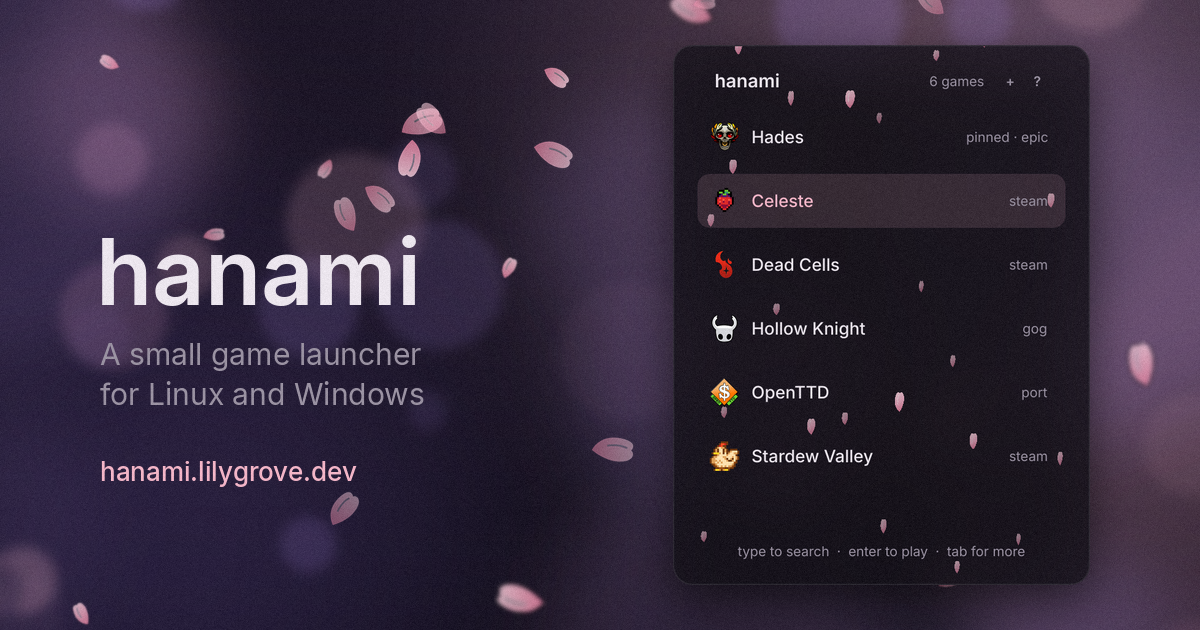
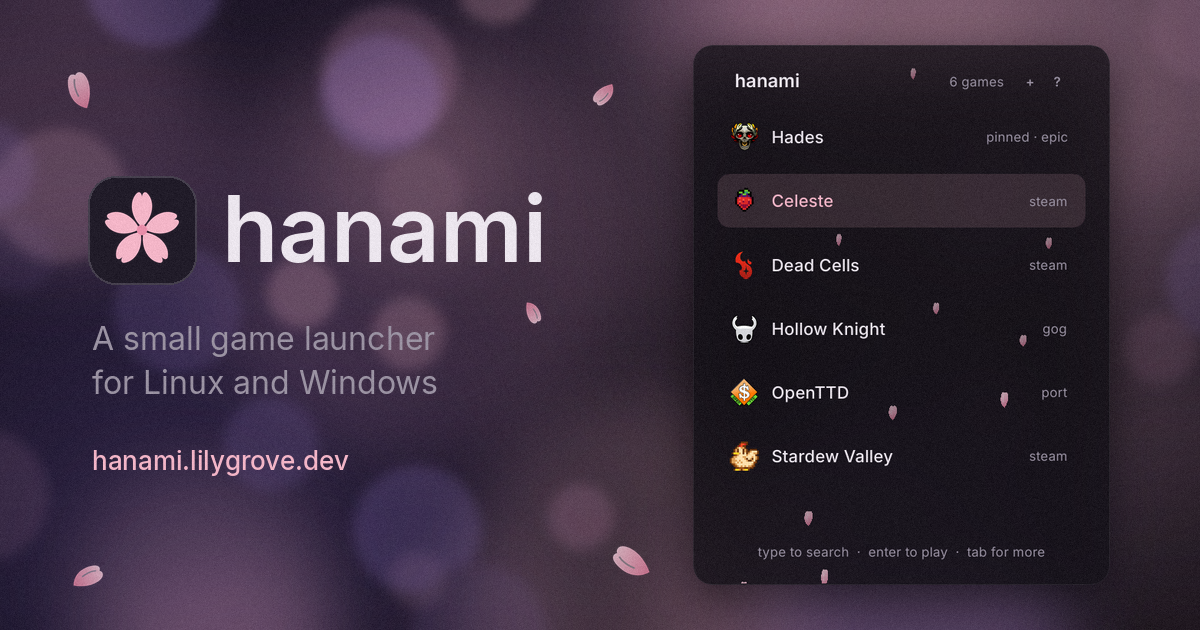
docs(readme): readable looks picture and a new link preview
- Looks picture: one look per row, panel drawn larger, no shape on text
- social.png redrawn in the banner's style by docs/looks.py
- screenshot.py no longer writes social.png; docs say which script does
- DESIGN.md: 10 px minimum at 800 px wide covers panel screenshots too

diff --git a/docs/looks.py b/docs/looks.py
@@ -1,9 +1,10 @@
-"""Draws docs/images/looks.webp: the real panel in three looks an AI can
-write (sakura, autumn, snow), side by side. Needs Rust, Pillow and fonttools.
+"""Draws docs/images/looks-*.webp and site/assets/social.png: the real panel in three looks an AI can
+write (sakura, autumn, snow), one above the other. Needs Rust, Pillow and fonttools.
 
-    python3 docs/looks.py [time time time]
+    python3 docs/looks.py [sakura autumn snow preview]
 
-The times (seconds into the petals) are picked so no shape covers text.
+The times (seconds into the petals; the last is the link preview's panel)
+are picked so no shape covers text.
 """
 
 import json
@@ -27,7 +28,9 @@ GAMES = [("Hades", "pinned · epic", "hades", True), ("Celeste", "steam", "celes
          ("OpenTTD", "port", "openttd", False), ("Stardew Valley", "steam", "stardew-valley", False)]
 
 
-TIMES = [float(t) for t in sys.argv[1:4]] or [3.85, 5.7, 9.03]
+TIMES = [float(t) for t in sys.argv[1:5]] or [15.8, 16.26, 2.23, 22.14]
+SCALE = 1.6
+SHOWN = 206
 
 
 def guide_shapes():
@@ -39,9 +42,10 @@ def guide_shapes():
 def panels(work):
     """The panel in each look, drawn by the panel_frames example."""
     maple, snow = guide_shapes()
-    looks = [({"petals": 12}, None), (dict(AUTUMN, petals=8, dots=0), maple), (dict(SNOW, petals=10, dots=0), snow)]
+    looks = [({"petals": 12}, None), (dict(AUTUMN, petals=6, dots=0), maple), (dict(SNOW, petals=10, dots=0), snow), ({"petals": 12}, None)]
     rows = [{"name": n, "label": l, "icon": f"site/assets/games/{i}.png", "pinned": p} for n, l, i, p in GAMES]
-    lines = []
+    size = (round(340 * SCALE), round(440 * SCALE))
+    out = []
     for k, (theme, shape) in enumerate(looks):
         state = {"time": TIMES[k], "games": rows, "selected": 1, "theme": theme}
         if shape:
@@ -49,14 +53,10 @@ def panels(work):
             folder.mkdir()
             (folder / "petal.svg").write_text(shape)
             state["look"] = str(folder)
-        lines.append(json.dumps(state))
-    frames = work / "frames"
-    subprocess.run(["cargo", "run", "-q", "--release", "--example", "panel_frames", "--", str(frames), "2.0"],
-                   input="\n".join(lines).encode(), cwd=ROOT, check=True)
-    size = (680, 880)
-    out = []
-    for k in range(len(looks)):
-        raw = (frames / f"{k:05}.rgba").read_bytes()
+        frames = work / f"frames-{k}"
+        subprocess.run(["cargo", "run", "-q", "--release", "--example", "panel_frames", "--", str(frames), str(SCALE)],
+                       input=json.dumps(state).encode(), cwd=ROOT, check=True)
+        raw = (frames / "00000.rgba").read_bytes()
         out.append(Image.frombytes("RGBa", size, raw).convert("RGBA"))
     return out
 
@@ -69,40 +69,75 @@ SNOW_SCENE = dict(screenshot.SCENES["dark"], top=(18, 30, 52), bottom=(8, 12, 22
                   bokeh=[(220, 238, 255), (154, 216, 255), (120, 150, 230)])
 
 
-def tile(panel, scene, petals, size=(520, 660)):
-    small = panel.resize((440, 569), Image.LANCZOS)
-    at = ((size[0] - 440) // 2, (size[1] - 569) // 2)
+TILE = (928, 420)
+
+
+def tile(panel, scene, size=TILE, crop=True, right=40):
+    small = panel.crop((0, 0, panel.width, round(SHOWN * SCALE))) if crop else panel
+    radius = round(16 * small.width / 340)
+    small.putalpha(screenshot.ImageChops.multiply(small.getchannel("A"), screenshot.rounded(small.size, radius)))
+    at = (size[0] - small.width - right, (size[1] - small.height) // 2)
     saved = screenshot.backdrop
-    if not petals:
-        screenshot.backdrop = lambda s, r, box, sz: screenshot.base(s, r, sz)
+    screenshot.backdrop = lambda s, r, box, sz: screenshot.base(s, r, sz)
     try:
-        return screenshot.scene_with_panel(small, scene, size, at, 14, seed=5)
+        return screenshot.scene_with_panel(small, scene, size, at, radius, seed=5)
     finally:
         screenshot.backdrop = saved
 
 
-LABELS = ["Sakura, the default", "\u201cmake it autumn, with maple leaves\u201d", "\u201cnow snow\u201d"]
-MODES = {"dark": ((23, 20, 29), (236, 230, 238), (155, 147, 163)), "light": ((253, 244, 247), (38, 30, 43), (116, 102, 123))}
+LABELS = [("Sakura", ["the default"]), ("Autumn", ["\u201cmake it autumn,", "with maple leaves\u201d"]), ("Snow", ["\u201cnow snow\u201d"])]
+MODES = {"dark": ((23, 20, 29),), "light": ((253, 244, 247),)}
+
+
+def caption(picture, title, lines):
+    font = lambda weight, size: screenshot.ImageFont.truetype(str(ROOT / "assets" / f"Inter-{weight}.ttf"), size)
+    draw = screenshot.ImageDraw.Draw(picture)
+    y = TILE[1] // 2 - 10 - 18 * (len(lines) - 1)
+    draw.text((52, y), title, font=font("SemiBold", 48), fill=(250, 246, 250), anchor="ls")
+    for j, line in enumerate(lines):
+        draw.text((54, y + 48 + j * 36), line, font=font("Regular", 27), fill=(236, 228, 238), anchor="ls")
+    return picture
 
 
 def card(tiles, mode):
-    bg, ink, dim = MODES[mode]
-    w, h = 48 * 2 + 520 * 3 + 24 * 2, 48 + 660 + 96
+    bg = MODES[mode][0]
+    w, h = 48 * 2 + TILE[0], 48 * 2 + 3 * TILE[1] + 2 * 24
     image = Image.new("RGBA", (w, h), bg + (0,))
     image.paste(Image.new("RGBA", (w, h), bg + (255,)), (0, 0), screenshot.rounded((w, h), 36))
-    font = screenshot.ImageFont.truetype(str(ROOT / "assets" / "Inter-Medium.ttf"), 28)
-    draw = screenshot.ImageDraw.Draw(image)
-    for k, (picture, label) in enumerate(zip(tiles, LABELS)):
-        x = 48 + k * (520 + 24)
-        image.paste(picture.convert("RGBA"), (x, 48), screenshot.rounded(picture.size, 24))
-        draw.text((x + 260, 48 + 660 + 46), label, font=font, fill=ink if k == 0 else dim, anchor="mm")
+    for k, picture in enumerate(tiles):
+        image.paste(picture.convert("RGBA"), (48, 48 + k * (TILE[1] + 24)), screenshot.rounded(TILE, 24))
     return image
+
+
+def logo(image):
+    font = lambda weight, size: screenshot.ImageFont.truetype(str(ROOT / "assets" / f"Inter-{weight}.ttf"), size)
+    draw = screenshot.ImageDraw.Draw(image)
+    draw.rounded_rectangle((88, 176, 196, 284), 28, fill=(33, 28, 41), outline=(70, 64, 78), width=2)
+    icon = Image.open(ROOT / "assets" / "hanami-icon.png").convert("RGBA").resize((84, 84), Image.LANCZOS)
+    image.alpha_composite(icon, (100, 188))
+    draw.text((222, 262), "hanami", font=font("SemiBold", 92), fill=(236, 230, 238), anchor="ls")
+    return draw, font
+
+
+def social(panel):
+    """site/assets/social.png: the link preview, in the banner's style."""
+    size = (1200, 630)
+    small = panel.resize((round(panel.width * 540 / panel.height), 540), Image.LANCZOS)
+    image = tile(small, screenshot.SCENES["dark"], size, crop=False, right=90).convert("RGBA")
+    for x, y, s, a in [(60, 70, 26, 20), (590, 80, 18, 140), (70, 560, 22, 300), (610, 540, 28, 60), (520, 300, 16, 210)]:
+        image.alpha_composite(screenshot.petal(s, (255, 214, 226), (232, 128, 159), 0.75, a, 0), (x, y))
+    draw, font = logo(image)
+    draw.text((92, 350), "A small game launcher", font=font("Regular", 32), fill=(155, 147, 163), anchor="ls")
+    draw.text((92, 394), "for Linux and Windows", font=font("Regular", 32), fill=(155, 147, 163), anchor="ls")
+    draw.text((92, 470), "hanami.lilygrove.dev", font=font("Medium", 26), fill=(244, 182, 200), anchor="ls")
+    return screenshot.dither(image)
 
 
 if __name__ == "__main__":
     with tempfile.TemporaryDirectory() as work:
-        sakura, autumn, snow = panels(Path(work))
-    scenes = [(sakura, screenshot.SCENES["dark"], True), (autumn, AUTUMN_SCENE, False), (snow, SNOW_SCENE, False)]
-    tiles = [screenshot.dither(tile(*s)) for s in scenes]
+        sakura, autumn, snow, preview = panels(Path(work))
+    scenes = [(sakura, screenshot.SCENES["dark"]), (autumn, AUTUMN_SCENE), (snow, SNOW_SCENE)]
+    tiles = [caption(screenshot.dither(tile(*s)).convert("RGBA"), *label) for s, label in zip(scenes, LABELS)]
     for mode in MODES:
         card(tiles, mode).save(HERE / "images" / f"looks-{mode}.webp", quality=90, method=6)
+    social(preview).save(ROOT / "site" / "assets" / "social.png", optimize=True)

diff --git a/docs/screenshot.py b/docs/screenshot.py
@@ -1,4 +1,4 @@
-"""Draws the README pictures and the site's link preview: the panel from
+"""Draws the README screenshots: the panel from
 `hanami --snapshot` over a blurred background, the way it looks with the
 desktop's blur turned on.
 
@@ -6,7 +6,7 @@ desktop's blur turned on.
     python3 docs/screenshot.py panel.png
 
 Needs Pillow. Writes docs/screenshot-dark.webp and docs/screenshot-light.webp,
-for GitHub's dark and light themes, and site/assets/social.png.
+for GitHub's dark and light themes. The link preview is docs/looks.py's.
 """
 
 import random
@@ -168,28 +168,9 @@ def draw(panel, name, scene):
     print(out)
 
 
-def social(panel):
-    """The 1200 x 630 card chat apps show for a link to the site."""
-    size = (1200, 630)
-    scale = 540 / panel.height
-    small = panel.resize((round(panel.width * scale), 540), Image.LANCZOS)
-    image = scene_with_panel(small, SCENES["dark"], size, (size[0] - small.width - 110, 45), round(RADIUS * scale), seed=3)
-    fonts = HERE.parent / "assets"
-    draw = ImageDraw.Draw(image)
-    draw.text((96, 215), "hanami", font=ImageFont.truetype(str(fonts / "Inter-SemiBold.ttf"), 92), fill=(236, 230, 238))
-    regular = ImageFont.truetype(str(fonts / "Inter-Regular.ttf"), 30)
-    draw.text((100, 335), "A small game launcher", font=regular, fill=(155, 147, 163))
-    draw.text((100, 375), "for Linux and Windows", font=regular, fill=(155, 147, 163))
-    draw.text((100, 455), "hanami.lilygrove.dev", font=ImageFont.truetype(str(fonts / "Inter-Medium.ttf"), 26), fill=(244, 182, 200))
-    out = HERE.parent / "site" / "assets" / "social.png"
-    dither(image).save(out, optimize=True)
-    print(out)
-
-
 if __name__ == "__main__":
     if len(sys.argv) != 2:
         sys.exit(__doc__)
     panel = Image.open(sys.argv[1]).convert("RGBA")
     for name, scene in SCENES.items():
         draw(panel, name, scene)
-    social(panel)

diff --git a/docs/video/README.md b/docs/video/README.md
@@ -4,8 +4,11 @@ The scripts here make the README pictures and Hanami's short videos. You
 only need them to redraw those.
 
 - **Screenshots:** `hanami --snapshot panel.png`, then
-  `python3 docs/screenshot.py panel.png`. This writes the two README
-  pictures and the website's social image.
+  `python3 docs/screenshot.py panel.png`. This writes the two screenshots.
+- **README cards:** `python3 docs/banner.py` and `python3 docs/cards.py`
+  (they need `fonttools`) write the banner and cards in `docs/images`.
+- **Looks and link preview:** `python3 docs/looks.py` draws the real panel in
+  three looks (`docs/images/looks-*.webp`) and the website's social image.
 - **README animation:** `python3 docs/video/demo.py` writes `docs/demo-dark.webp`
   and `docs/demo-light.webp`. It builds the panel itself and takes a few
   minutes.

diff --git a/docs/DESIGN.md b/docs/DESIGN.md
@@ -76,7 +76,6 @@ surface is `#fdf4f7` with a `#2b1d28` border at 10 %, `#261e2b` text,
 The rules above are for the app. The README cards (`docs/banner.py`,
 `docs/cards.py`, `docs/looks.py`) may use a soft pink glow, card grids and
 pink for chips and icons, so the page reads at a glance. They keep Inter,
-the colours above, 28 px card and 18–20 px tile corners, and text no smaller
-than 16 px on the 1280 px canvas, so it stays readable at GitHub's width.
-The looks picture shows the real panel at its own sizes; only its captions
-follow that rule.
+the colours above, 28 px card and 18–20 px tile corners, and no text smaller
+than 10 px when the picture is shown 800 px wide (16 px on a 1280 px
+canvas), panel screenshots included, so it stays readable on GitHub.
